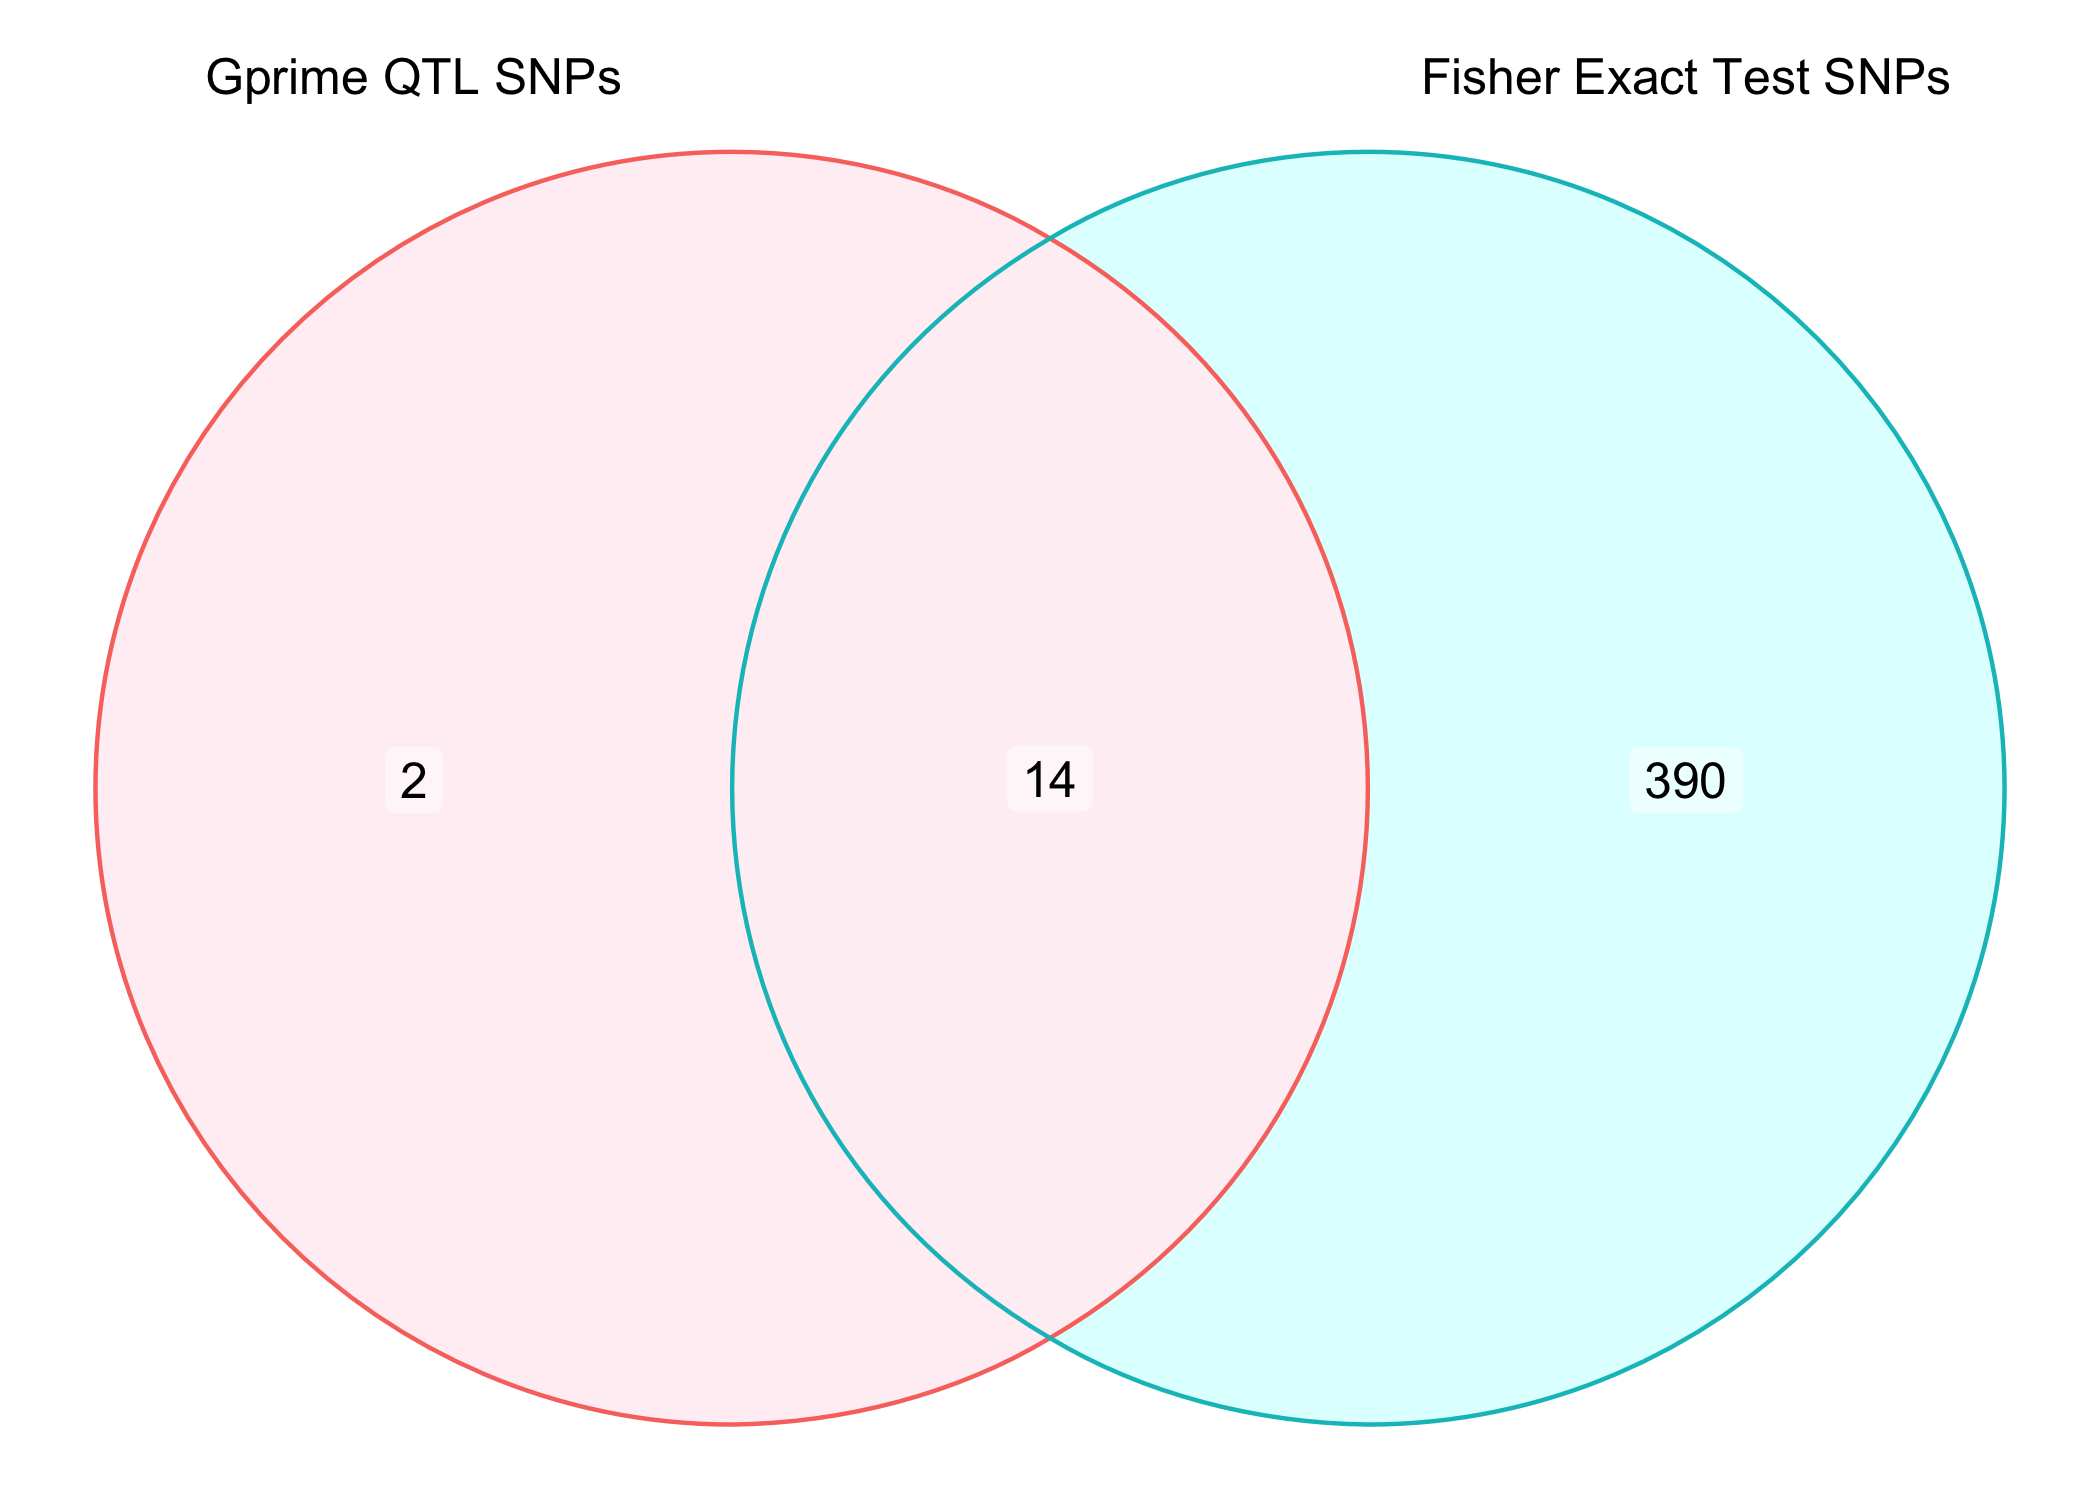
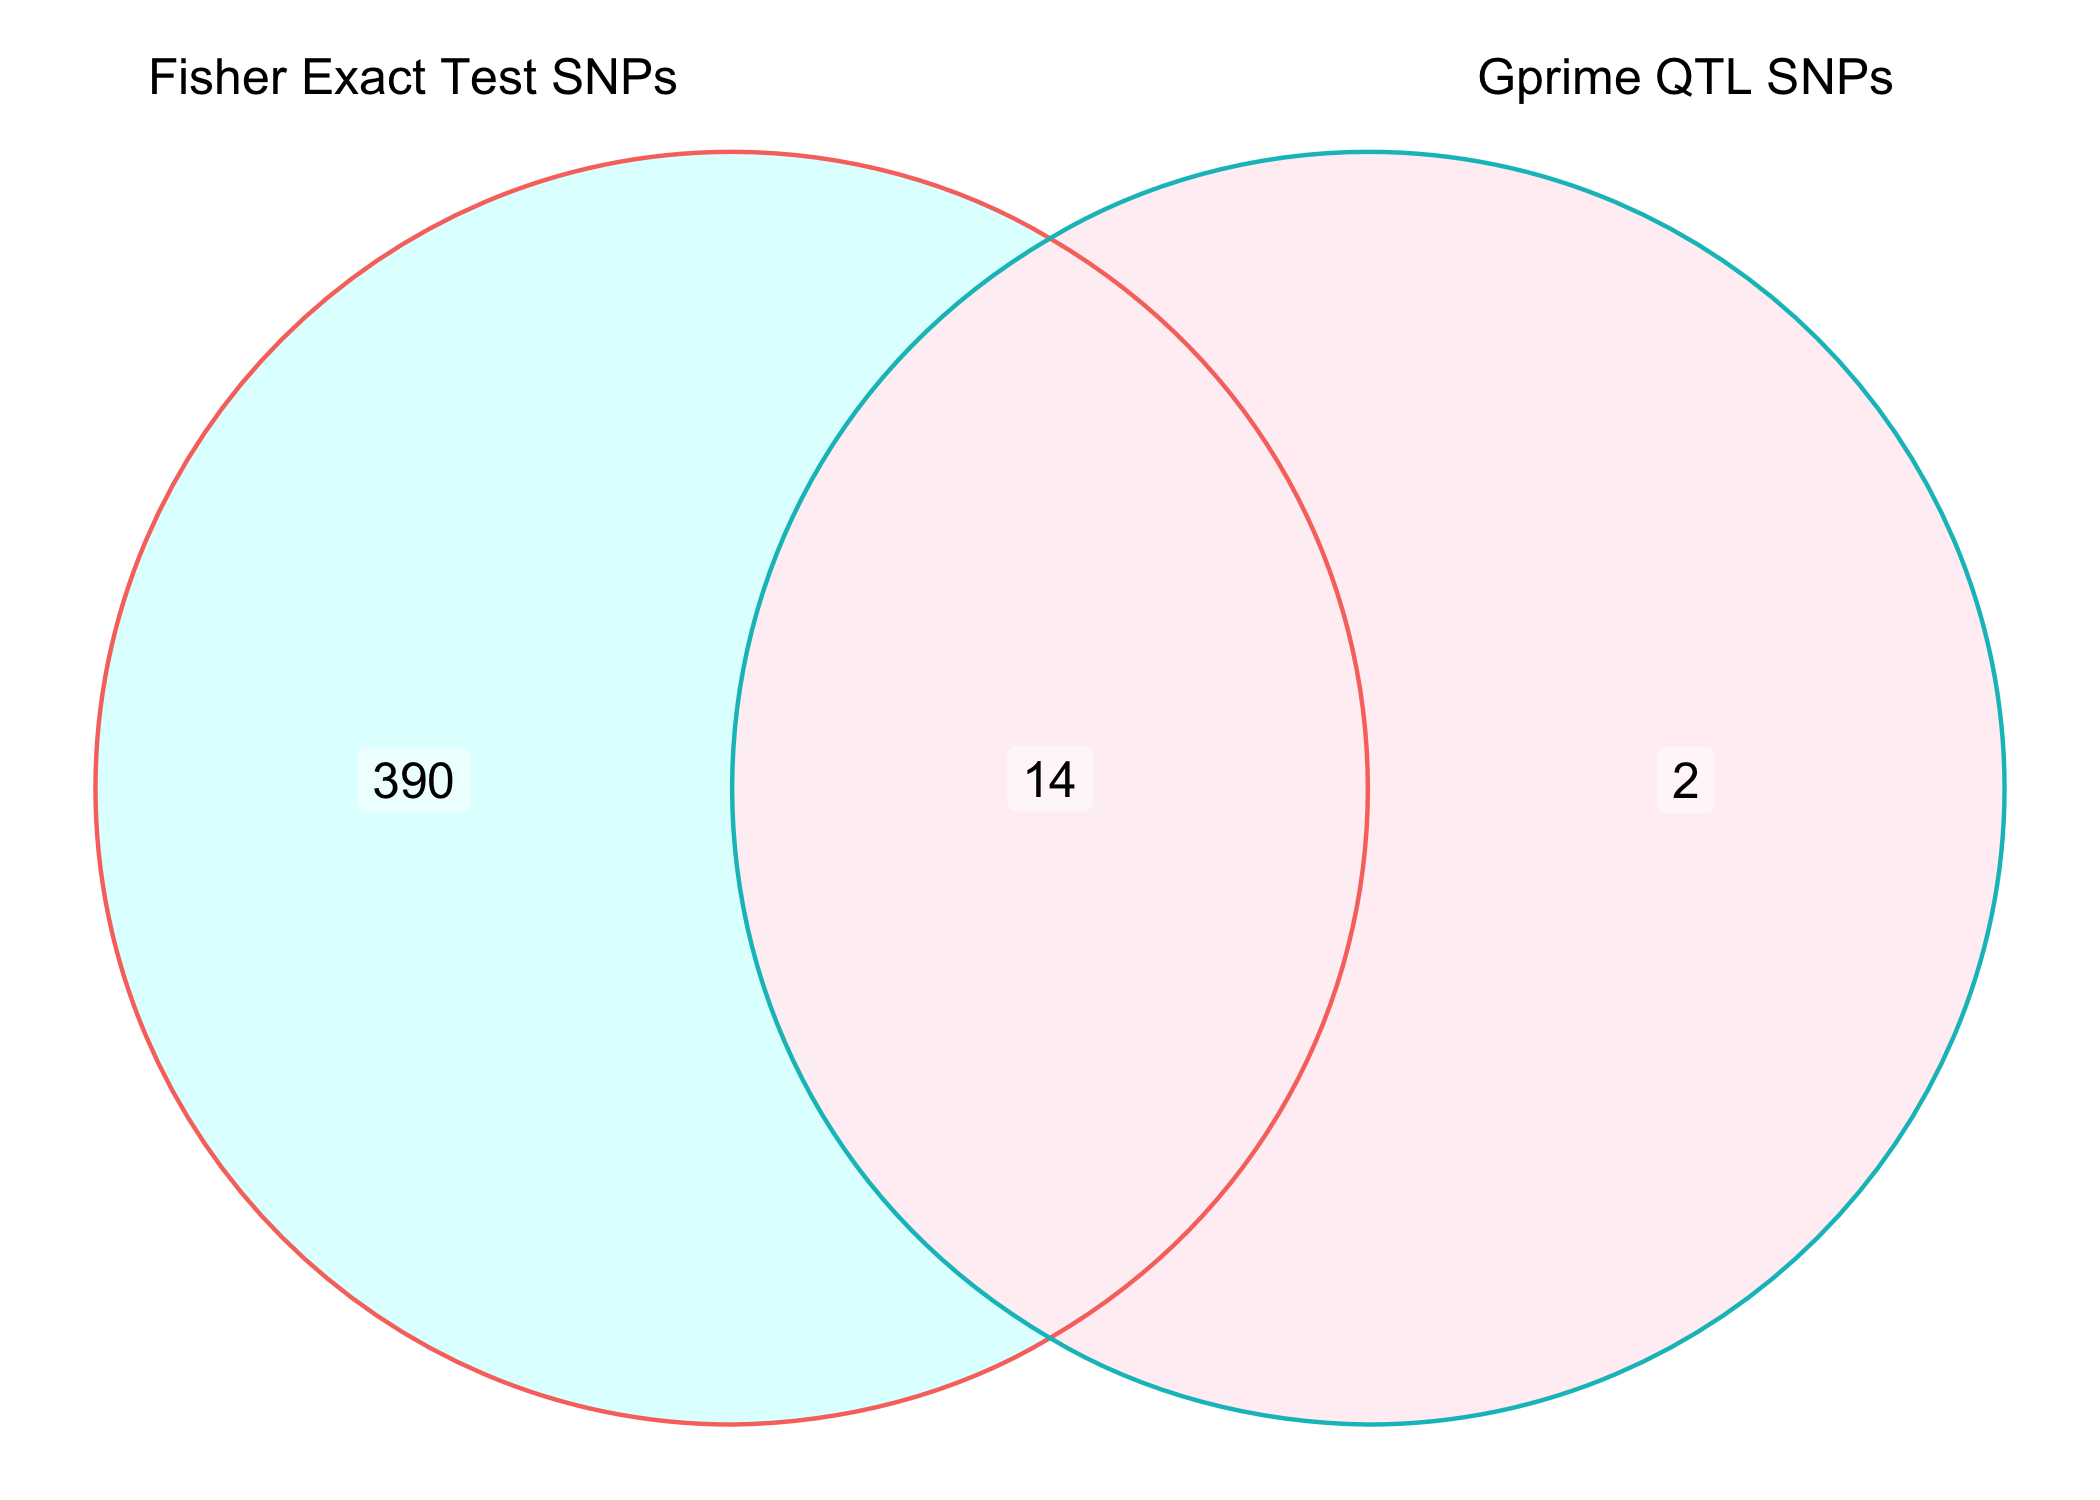
changing order of plot

diff --git a/16-Cq-Virus-Sequence-Analysis/SNP_calling_and_analysis/Analysis-of-pooled-continuous-freebayes-vcf.md b/16-Cq-Virus-Sequence-Analysis/SNP_calling_and_analysis/Analysis-of-pooled-continuous-freebayes-vcf.md
@@ -366,9 +366,9 @@ Gprime_SNP_POS <- Gprime_SNPS$POS
 Fisher_SNP_POS <- sig.snps$POS
 
 # combine those vectors into a list
-c <- list(Gprime_SNP_POS, Fisher_SNP_POS)
+c <- list( Fisher_SNP_POS, Gprime_SNP_POS)
 # use function to make a venn diagram from that list
-ggVennDiagram(c, category.names = c("Gprime QTL SNPs", "Fisher Exact Test SNPs"), label = "count") + scale_fill_gradient(low = "lavenderblush1", high = "lightcyan1") +
+ggVennDiagram(c, category.names = c( "Fisher Exact Test SNPs", "Gprime QTL SNPs"), label = "count") + scale_fill_gradient(low = "lavenderblush1", high = "lightcyan1") +
  theme(legend.position = "none")
 ```
 
